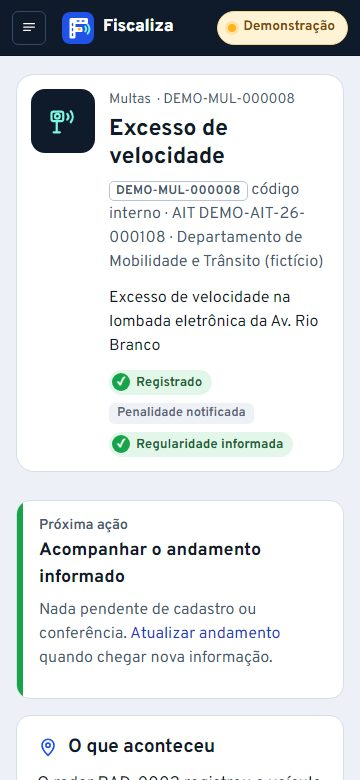
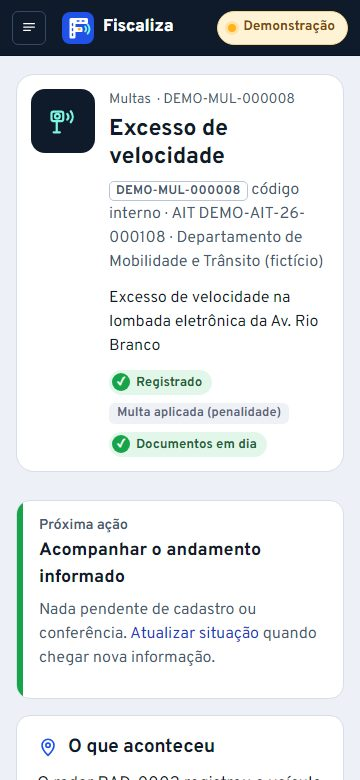
Multas: documentos e situação da multa em linguagem simples
"Documentação na data da ocorrência" vira "Documentos do carro no dia da multa"
(em dia / com pendência / não conferidos, e como se soube), e "Andamento informado"
vira "Situação da multa" (fase, pagamento, defesa ou recurso). Rótulos de fase,
pagamento, recurso e datas reescritos; referências dos exemplos encurtadas.

Changed region(s): [[0.1222, 0.8, 0.8861, 0.8615], [0.3361, 0.5231, 0.825, 0.5846]]

diff --git a/src/Demo/FineScenario.php b/src/Demo/FineScenario.php
@@ -154,7 +154,7 @@ final class FineScenario
                 'speed_limit_kmh' => '50', 'speed_measured_kmh' => '71', 'speed_considered_kmh' => '64']
             + $vehicle('DMO1A23', '01234567890', 'Movix', 'Urbano 1.0', 'Passageiro', 'Prata', 2021));
         $register('c01', $id);
-        $check('c01', $id, $regular(5, '10:00', 'CONSULTA_OFICIAL_INFORMADA', 'Consulta feita fora do sistema e informada à mão (fictícia): DEMO-CONS-0001'));
+        $check('c01', $id, $regular(5, '10:00', 'CONSULTA_OFICIAL_INFORMADA', 'consulta nº DEMO-CONS-0001'));
         $progress('c01', $id, ['process_stage' => 'AUTUACAO', 'nominal_amount' => '130,16', 'autuation_issued_on' => $day(3)]);
         $count++;
 
@@ -172,7 +172,7 @@ final class FineScenario
                 'evidence_reference' => 'DEMO-IMG-0303 (sequência fictícia de imagens)']
             + $vehicle('DMO3C45', '04561237890', 'Cidália', 'Hatch 1.3', 'Passageiro', 'Vermelha', 2022));
         $register('c03', $id);
-        $check('c03', $id, $regular(7, '11:30', 'CONSULTA_OFICIAL_INFORMADA', 'Consulta feita fora do sistema e informada à mão (fictícia): DEMO-CONS-0003'));
+        $check('c03', $id, $regular(7, '11:30', 'CONSULTA_OFICIAL_INFORMADA', 'consulta nº DEMO-CONS-0003'));
         $count++;
 
         // 4. Agente, placa no formato antigo e RENAVAM com zeros à esquerda.
@@ -180,7 +180,7 @@ final class FineScenario
             + ['description' => 'Parada sobre a faixa de pedestres no calçadão', 'occurred_at' => $at(3, '12:05'), 'external_ait' => 'DEMO-AIT-26-000104']
             + $vehicle('DMO1234', '00012345678', 'Trilha Motors', 'Sedã 2.0', 'Passageiro', 'Preta', 2012));
         $register('c04', $id);
-        $check('c04', $id, $regular(3, '12:10', 'CRLV_APRESENTADO', 'CRLV-e exibido no local (fictício)'));
+        $check('c04', $id, $regular(3, '12:10', 'CRLV_APRESENTADO', 'CRLV digital no celular'));
         $count++;
 
         // 5. Agente, RENAVAM desconhecido com justificativa, documentação não verificada.
@@ -196,7 +196,7 @@ final class FineScenario
             + $vehicle('DMO6E78', '07418529630', 'Rodafort', 'Picape 1.6', 'Misto', 'Cinza', 2016));
         $register('c06', $id);
         $check('c06', $id, ['scope' => 'OCORRENCIA', 'checked_at' => $at(30, '08:20'), 'document_status' => 'PENDENCIA_INFORMADA', 'source_type' => 'CRLV_APRESENTADO',
-            'source_reference' => 'CRLV de exercício anterior exibido no local (fictício)', 'crlv_exercise' => (string) ($year - 1),
+            'source_reference' => 'CRLV do ano anterior', 'crlv_exercise' => (string) ($year - 1),
             'pending_items' => 'Licenciamento do exercício não comprovado no local (informado).', 'review_on' => $day(10)]);
         $count++;
 
@@ -206,9 +206,9 @@ final class FineScenario
             + $vehicle('DMO7F89', '03692581470', 'Cidália', 'Hatch 1.3', 'Passageiro', 'Branca', 2018));
         $register('c07', $id);
         $check('c07', $id, ['scope' => 'OCORRENCIA', 'checked_at' => $at(25, '17:55'), 'document_status' => 'PENDENCIA_INFORMADA', 'source_type' => 'RELATO_MANUAL',
-            'source_reference' => 'Relato do agente no local (fictício)', 'pending_items' => 'CRLV do exercício não apresentado.']);
+            'source_reference' => 'relato do agente no local', 'pending_items' => 'CRLV do exercício não apresentado.']);
         $check('c07', $id, ['scope' => 'POSTERIOR', 'effective_on' => $day(2), 'checked_at' => $at(2, '14:00'), 'document_status' => 'REGULARIDADE_INFORMADA',
-            'source_type' => 'CRLV_APRESENTADO', 'source_reference' => 'CRLV-e do exercício apresentado na base (fictício)', 'crlv_exercise' => (string) $year]);
+            'source_type' => 'CRLV_APRESENTADO', 'source_reference' => 'CRLV do ano em curso, mostrado na base', 'crlv_exercise' => (string) $year]);
         $count++;
 
         // 8. Penalidade notificada, pagamento informado e recurso em análise ao mesmo tempo.
@@ -217,11 +217,11 @@ final class FineScenario
                 'speed_limit_kmh' => '40', 'speed_measured_kmh' => '62', 'speed_considered_kmh' => '55']
             + $vehicle('DMO8G90', '05544332211', 'Trilha Motors', 'SUV 1.5', 'Passageiro', 'Verde', 2023));
         $register('c08', $id);
-        $check('c08', $id, $regular(58, '09:00', 'CONSULTA_OFICIAL_INFORMADA', 'Consulta feita fora do sistema e informada à mão (fictícia): DEMO-CONS-0008'));
+        $check('c08', $id, $regular(58, '09:00', 'CONSULTA_OFICIAL_INFORMADA', 'consulta nº DEMO-CONS-0008'));
         $progress('c08', $id, ['process_stage' => 'PENALIDADE_NOTIFICADA', 'nominal_amount' => '195,23', 'autuation_issued_on' => $day(50), 'autuation_received_on' => $day(45),
             'penalty_issued_on' => $day(15), 'penalty_received_on' => $day(10), 'appeal_due_on' => $day(-10),
-            'payment_status' => 'PAGAMENTO_INFORMADO', 'paid_on' => $day(5), 'paid_amount' => '195,23', 'payment_reference' => 'DEMO-PAG-0008 (comprovante fictício)',
-            'contest_status' => 'EM_ANALISE', 'contest_kind' => 'RECURSO_1', 'contest_submitted_on' => $day(6), 'contest_reference' => 'DEMO-PROT-0008 (protocolo fictício)']);
+            'payment_status' => 'PAGAMENTO_INFORMADO', 'paid_on' => $day(5), 'paid_amount' => '195,23', 'payment_reference' => 'DEMO-PAG-0008',
+            'contest_status' => 'EM_ANALISE', 'contest_kind' => 'RECURSO_1', 'contest_submitted_on' => $day(6), 'contest_reference' => 'DEMO-PROT-0008']);
         $count++;
 
         // 9. Rascunho incompleto, com o caminho para completar na ficha.
@@ -253,7 +253,7 @@ final class FineScenario
             + $vehicle('DMO4E21', '08877665544', 'Cidália', 'Sedã 1.6', 'Passageiro', 'Bege', 2014);
         $id = $create('c12', $base);
         $register('c12', $id);
-        $check('c12', $id, $regular(12, '15:30', 'CRLV_APRESENTADO', 'CRLV-e exibido no local (fictício)'));
+        $check('c12', $id, $regular(12, '15:30', 'CRLV_APRESENTADO', 'CRLV digital no celular'));
         $fines->update($id, ['vehicle_plate' => 'DMO4E27', 'reason' => 'Placa transcrita com erro no lançamento; corrigida conforme o auto (fictício).',
             'version' => (string) $version($id), 'command_uid' => $uid('c12:retificar')] + $base, null, 'SEMENTE');
         $count++;
@@ -273,11 +273,11 @@ final class FineScenario
                     'external_ait' => sprintf('DEMO-AIT-26-%06d', 200 + $i), 'notes' => self::volumeRelato($i, $i % 2 === 0, $data['infraction_kind'])] + $vehicle($plate, sprintf('%011d', $i * 104729), 'Movix', 'Urbano 1.0', 'Passageiro', 'Prata', 2010 + $i % 14));
                 $register($key, $id);
                 if ($i % 3 === 0) {
-                    $check($key, $id, $regular(2 + $i * 3, '10:00', 'CONSULTA_OFICIAL_INFORMADA', sprintf('Consulta feita fora do sistema e informada à mão (fictícia): DEMO-CONS-%04d', 100 + $i)));
+                    $check($key, $id, $regular(2 + $i * 3, '10:00', 'CONSULTA_OFICIAL_INFORMADA', sprintf('consulta nº DEMO-CONS-%04d', 100 + $i)));
                 }
                 if ($i % 4 === 0) {
                     $progress($key, $id, ['process_stage' => 'PENALIDADE_NOTIFICADA', 'nominal_amount' => '130,16', 'payment_status' => 'PAGAMENTO_INFORMADO',
-                        'paid_on' => $day(1 + $i), 'paid_amount' => '130,16', 'payment_reference' => sprintf('DEMO-PAG-%04d (fictício)', 100 + $i)]);
+                        'paid_on' => $day(1 + $i), 'paid_amount' => '130,16', 'payment_reference' => sprintf('DEMO-PAG-%04d', 100 + $i)]);
                 }
                 $count++;
             }

diff --git a/src/Application/FineService.php b/src/Application/FineService.php
@@ -36,15 +36,15 @@ final class FineService
         'paid_amount_cents', 'payment_reference', 'contest_submitted_on', 'contest_reference', 'contest_decided_on', 'contest_result_note', 'closed_on',
         'closure_reference', 'closure_note'];
 
-    public const PROGRESS_LABELS = ['process_stage' => 'Etapa administrativa', 'payment_status' => 'Pagamento', 'contest_status' => 'Contestação',
-        'contest_kind' => 'Espécie da contestação', 'nominal_amount_cents' => 'Valor nominal', 'nominal_amount' => 'Valor nominal',
-        'autuation_issued_on' => 'Expedição da notificação da autuação', 'autuation_received_on' => 'Recebimento da notificação da autuação',
-        'penalty_issued_on' => 'Expedição da notificação da penalidade', 'penalty_received_on' => 'Recebimento da notificação da penalidade',
-        'payment_due_on' => 'Vencimento informado', 'defense_due_on' => 'Prazo de defesa informado', 'appeal_due_on' => 'Prazo de recurso informado',
-        'paid_on' => 'Data do pagamento', 'paid_amount_cents' => 'Valor pago informado', 'paid_amount' => 'Valor pago informado',
-        'payment_reference' => 'Referência do pagamento', 'contest_submitted_on' => 'Data do protocolo', 'contest_reference' => 'Referência do protocolo',
-        'contest_decided_on' => 'Data do resultado', 'contest_result_note' => 'Resultado informado', 'closed_on' => 'Data do encerramento',
-        'closure_reference' => 'Referência do encerramento', 'closure_note' => 'Conclusão informada', 'progress_reason' => 'Motivo da correção', 'check_reason' => 'Motivo'];
+    public const PROGRESS_LABELS = ['process_stage' => 'Fase', 'payment_status' => 'Pagamento', 'contest_status' => 'Defesa ou recurso',
+        'contest_kind' => 'Tipo de defesa ou recurso', 'nominal_amount_cents' => 'Valor da multa', 'nominal_amount' => 'Valor da multa',
+        'autuation_issued_on' => 'Aviso de infração enviado em', 'autuation_received_on' => 'Aviso de infração recebido em',
+        'penalty_issued_on' => 'Aviso da multa enviado em', 'penalty_received_on' => 'Aviso da multa recebido em',
+        'payment_due_on' => 'Vencimento', 'defense_due_on' => 'Prazo para defesa', 'appeal_due_on' => 'Prazo para recurso',
+        'paid_on' => 'Pago em', 'paid_amount_cents' => 'Valor pago', 'paid_amount' => 'Valor pago',
+        'payment_reference' => 'Comprovante do pagamento', 'contest_submitted_on' => 'Defesa ou recurso entregue em', 'contest_reference' => 'Número do protocolo',
+        'contest_decided_on' => 'Resposta em', 'contest_result_note' => 'O que o órgão respondeu', 'closed_on' => 'Encerrada em',
+        'closure_reference' => 'Documento do encerramento', 'closure_note' => 'Como terminou', 'progress_reason' => 'Motivo da correção', 'check_reason' => 'Motivo'];
 
     /** Datas de fatos já ocorridos (não podem estar no futuro nem antes da ocorrência). Prazos e vencimentos podem. */
     private const FACT_DATES = ['autuation_issued_on', 'autuation_received_on', 'penalty_issued_on', 'penalty_received_on', 'paid_on', 'contest_submitted_on', 'contest_decided_on', 'closed_on'];

diff --git a/src/Domain/FineRules.php b/src/Domain/FineRules.php
@@ -25,28 +25,28 @@ final class FineRules
     public const SOURCES = ['RADAR' => 'Radar', 'AGENTE' => 'Agente de trânsito'];
 
     public const STAGES = [
-        'NAO_INFORMADA' => 'Etapa não informada',
-        'AUTUACAO' => 'Autuação',
-        'PENALIDADE_NOTIFICADA' => 'Penalidade notificada',
-        'ENCERRAMENTO_INFORMADO' => 'Encerramento informado',
+        'NAO_INFORMADA' => 'Fase ainda não informada',
+        'AUTUACAO' => 'Aviso de infração enviado (autuação)',
+        'PENALIDADE_NOTIFICADA' => 'Multa aplicada (penalidade)',
+        'ENCERRAMENTO_INFORMADO' => 'Encerrada',
     ];
 
     public const PAYMENTS = [
-        'NAO_INFORMADO' => 'Pagamento não informado',
-        'SEM_COBRANCA_INFORMADA' => 'Sem cobrança informada',
-        'EM_ABERTO' => 'Em aberto (informado)',
-        'PAGAMENTO_INFORMADO' => 'Pagamento informado',
+        'NAO_INFORMADO' => 'Ainda não informado',
+        'SEM_COBRANCA_INFORMADA' => 'Não há valor a pagar',
+        'EM_ABERTO' => 'A pagar',
+        'PAGAMENTO_INFORMADO' => 'Paga',
     ];
 
     public const CONTESTS = [
-        'NAO_INFORMADA' => 'Contestação não informada',
-        'NAO_APRESENTADA' => 'Nenhuma contestação apresentada',
-        'EM_ANALISE' => 'Contestação em análise',
-        'DEFERIDA' => 'Contestação deferida (informado)',
-        'INDEFERIDA' => 'Contestação indeferida (informado)',
+        'NAO_INFORMADA' => 'Ainda não informado',
+        'NAO_APRESENTADA' => 'Motorista não recorreu',
+        'EM_ANALISE' => 'Em análise',
+        'DEFERIDA' => 'Aceito (multa cancelada pelo órgão)',
+        'INDEFERIDA' => 'Negado',
     ];
 
-    public const CONTEST_KINDS = ['DEFESA_PREVIA' => 'Defesa prévia', 'RECURSO_1' => 'Recurso em 1ª instância', 'RECURSO_2' => 'Recurso em 2ª instância'];
+    public const CONTEST_KINDS = ['DEFESA_PREVIA' => 'Defesa prévia', 'RECURSO_1' => 'Recurso à JARI (1ª instância)', 'RECURSO_2' => 'Recurso ao conselho estadual (2ª instância)'];
 
     public const UFS = ['AC', 'AL', 'AP', 'AM', 'BA', 'CE', 'DF', 'ES', 'GO', 'MA', 'MT', 'MS', 'MG', 'PA', 'PB', 'PR', 'PE', 'PI', 'RJ', 'RN', 'RS', 'RO', 'RR', 'SC', 'SP', 'SE', 'TO'];
 
@@ -202,9 +202,9 @@ final class FineRules
         }
         $doc = $f['occ_doc_status'] ?? FineDocumentStatus::NOT_CHECKED;
         if ($doc === FineDocumentStatus::NOT_CHECKED) {
-            $reasons[] = 'Documentação na data da ocorrência: não verificada.';
+            $reasons[] = 'Documentos do carro no dia da multa ainda não conferidos.';
         } elseif ($doc === FineDocumentStatus::PENDING) {
-            $reasons[] = 'Pendência documental informada na data da ocorrência.';
+            $reasons[] = 'Documentos do carro com pendência no dia da multa.';
         }
         $review = $f['occ_doc_review_on'] ?? null;
         if ($today !== null && is_string($review) && $review !== '' && $review < $today) {

diff --git a/tests/Http/FinesHttpTest.php b/tests/Http/FinesHttpTest.php
@@ -152,7 +152,7 @@ final class FinesHttpTest extends FirebirdTestCase
         self::assertSame(303, $this->request('POST', "/multas/{$id}/registrar", ['_csrf' => $this->session->csrfToken(), 'version' => $version, 'command_uid' => $uid])->getStatusCode());
 
         $show = (string) $this->request('GET', "/multas/{$id}")->getBody();
-        self::assertStringContainsString('Registrar conferência documental', $show);
+        self::assertStringContainsString('Conferir os documentos do carro', $show);
         [$version, $uid] = self::formKeys($show, self::BASE . "/multas/{$id}/conferencias");
         $check = $this->request('POST', "/multas/{$id}/conferencias", ['_csrf' => $this->session->csrfToken(), 'version' => $version, 'command_uid' => $uid, 'scope' => 'OCORRENCIA',
             'checked_at' => '2026-10-18T10:00', 'document_status' => 'PENDENCIA_INFORMADA', 'source_type' => 'CRLV_APRESENTADO', 'source_reference' => 'CRLV fictício', 'pending_items' => '']);
@@ -170,7 +170,7 @@ final class FinesHttpTest extends FirebirdTestCase
         self::assertSame(303, $progress->getStatusCode());
 
         $show = (string) $this->request('GET', "/multas/{$id}")->getBody();
-        self::assertStringContainsString('Pendência informada', $show);
+        self::assertStringContainsString('Documentos com pendência', $show);
         self::assertStringContainsString('R$ 130,16', $show);
         [$version, $uid] = self::formKeys($show, self::BASE . "/multas/{$id}/cancelar");
         self::assertSame(303, $this->request('POST', "/multas/{$id}/cancelar", ['_csrf' => $this->session->csrfToken(), 'version' => $version, 'command_uid' => $uid, 'reason' => 'Duplicado'])->getStatusCode());

diff --git a/src/Domain/FineDocumentStatus.php b/src/Domain/FineDocumentStatus.php
@@ -14,16 +14,16 @@ final class FineDocumentStatus
     public const REGULAR = 'REGULARIDADE_INFORMADA';
     public const PENDING = 'PENDENCIA_INFORMADA';
 
-    public const LABELS = [self::NOT_CHECKED => 'Não verificada', self::REGULAR => 'Regularidade informada', self::PENDING => 'Pendência informada'];
+    public const LABELS = [self::NOT_CHECKED => 'Não conferidos', self::REGULAR => 'Em dia', self::PENDING => 'Com pendência'];
 
-    public const SCOPES = ['OCORRENCIA' => 'Na data da ocorrência', 'POSTERIOR' => 'Conferência posterior'];
+    public const SCOPES = ['OCORRENCIA' => 'No dia da multa', 'POSTERIOR' => 'Depois da multa'];
 
     /** Fonte da evidência apresentada. Nenhuma faz consulta externa: é o que a pessoa informou ter visto. */
     public const SOURCE_TYPES = [
-        'CRLV_APRESENTADO' => 'CRLV apresentado',
-        'CONSULTA_OFICIAL_INFORMADA' => 'Consulta oficial feita fora do sistema',
-        'RELATO_MANUAL' => 'Relato manual',
-        'NAO_INFORMADA' => 'Fonte não informada',
+        'CRLV_APRESENTADO' => 'O motorista mostrou o documento',
+        'CONSULTA_OFICIAL_INFORMADA' => 'Consultado no site oficial (fora deste sistema)',
+        'RELATO_MANUAL' => 'Contado por quem estava no local',
+        'NAO_INFORMADA' => 'Não informado como se soube',
     ];
 
     /**
